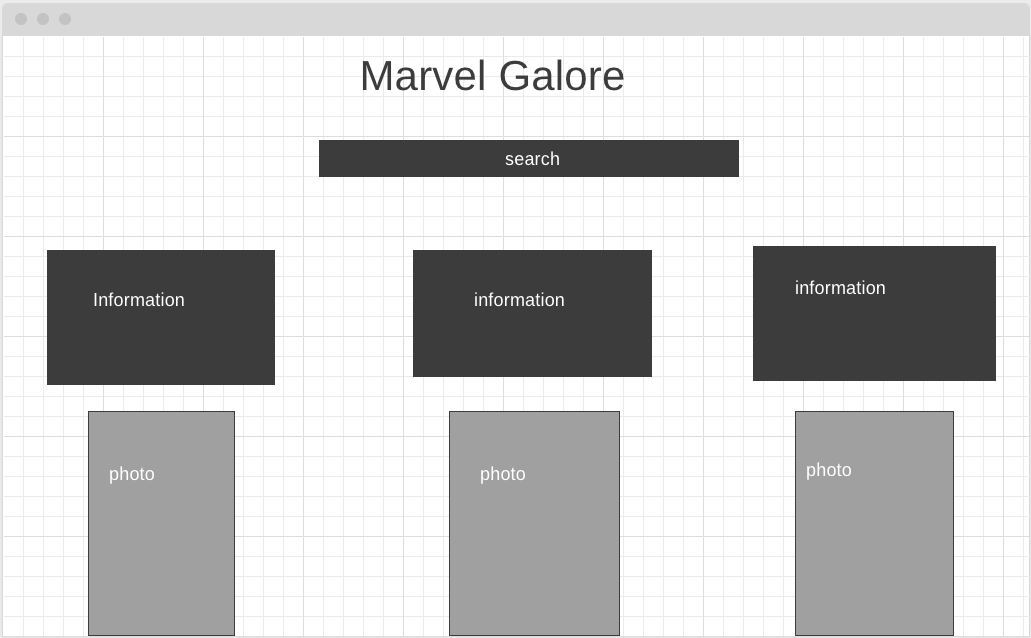
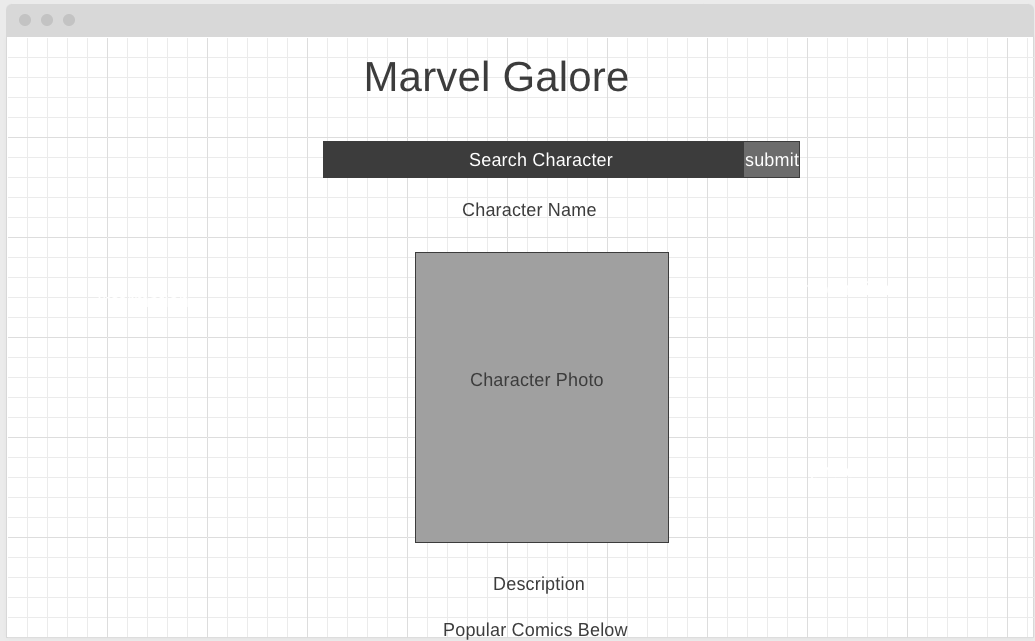
complete

diff --git a/script.js b/script.js
@@ -1,4 +1,4 @@
-const urlComic = ("http://gateway.marvel.com/v1/public/comics?ts=1&apikey=a78e3adcbc7bd18276cc614ce23deb26&hash=9fa0da4cb7c4e322ed7bca01b1ca91c4&limit=10")
+const urlComic = ("http://gateway.marvel.com/v1/public/comics?ts=1&apikey=a78e3adcbc7bd18276cc614ce23deb26&hash=9fa0da4cb7c4e322ed7bca01b1ca91c4&limit=10&offset=12")
 const characterUrl = ('http://gateway.marvel.com/v1/public/characters?ts=1&apikey=a78e3adcbc7bd18276cc614ce23deb26&hash=9fa0da4cb7c4e322ed7bca01b1ca91c4&limit=100')
 
 
@@ -46,7 +46,6 @@ function showCharacterData(characters) {
 
 
     let characterDescription = document.createElement('p')
-
     if (character.description === "") {
       characterDescription.innerText = "No description available"
       dataBoxes.appendChild(characterDescription)
@@ -80,7 +79,6 @@ function showComicData(comics) {
       comicCharacters.innerText = `${"CHARACTERS: " + character.name}`;
       dataBoxes.appendChild(comicCharacters);
     });
-    // console.log(comics.characters.items)
 
     let comicDescription = document.createElement('p')
     comicDescription.innerText = comics.description
@@ -96,8 +94,6 @@ function showComicData(comics) {
     let comicPrice = document.createElement('h4')
     comicPrice.innerText = `${"PRICE: " + "$" + comics.prices[0].price}`
     dataBoxes.appendChild(comicPrice)
-
-
   })
 
 
@@ -112,12 +108,9 @@ const searchMarvel = document.querySelector('#searchMarvel')
 marvelForm.addEventListener("submit", (e) => {
   e.preventDefault()
   removeCharacter()
-  // removeComic()
   let characterSearch = searchMarvel.value
   console.log(characterSearch)
   getMarvel(characterSearch)
-
-
 })
 
 function removeCharacter() {
@@ -129,9 +122,6 @@ function removeComic() {
 
 marvelForm.addEventListener("submit", (e) => {
   e.preventDefault();
-  // removeCharacter();
   removeComic();
   let characterSearch = searchMarvel.value;
-  // console.log(characterSearch);
-  // getMarvel(characterSearch);
 });

diff --git a/index.html b/index.html
@@ -23,7 +23,7 @@
 
 
       <form id="marvel-form">
-        <input class="searchbar" id="searchMarvel" type="text" placeholder="Search comics/characters">
+        <input class="searchbar" id="searchMarvel" type="text" placeholder="Search characters">
         <button id="submit">Submit</button>
       </form>
     </div>

diff --git a/README.md b/README.md
@@ -5,7 +5,7 @@ Marvel Galore
 
 ## Project Description
 
-This is a site that allows you to search your favorite marvel comics and characters. This will display information about them.
+This is a site that allows you to search your favorite marvel characters. This will display information about them.
 
 ## API and Data Sample
 
@@ -43,11 +43,13 @@ I am using the marvel.com api. Here's the link: https://developer.marvel.com/
 #### MVP 
 <!-- *These are examples only. Replace with your own MVP features.* -->
 - Use marvel api to receive relevant information.
-- Render the comics and/or characters onto the page
-- Allowing user to click on the comics/characters and recieve additional info about them.
 - Add javascript to create functionality
-- Style the page uding flex box and css
+- Render popular Marvel comics onto the page onto the page.
+- Allows the user to search Marvel characters.
+- Shows user information about the character they searched.
+- Style the page using flex box and css
 - Add media queries to cater to different screen sizes.
+
 
 #### PostMVP  
 <!-- *These are examples only. Replace with your own Post-MVP features.* -->
@@ -62,10 +64,10 @@ You are **responsible** for scheduling time with your squad to seek approval for
 |  Day | Deliverable | Status
 |---|---| ---|
 |nov 7| Wireframes / Priority Matrix / Timeframes | complete
-|nov 8| Core Application Structure (HTML, CSS, etc.) | Incomplete
-|nov 9| Pseudocode / actual code | Incomplete
-|nov 10| Initial Clickable Model  | Incomplete
-|nov 11-12| MVP | Incomplete
+|nov 8| Core Application Structure (HTML, CSS, etc.) | complete
+|nov 9| Pseudocode / actual code | complete
+|nov 10| Initial Clickable Model  | complete
+|nov 11-12| MVP | complete
 
 
 ## Priority Matrix
@@ -83,28 +85,32 @@ You are **responsible** for scheduling time with your squad to seek approval for
 | --- | :---: |  :---: | :---: | :---: |
 | Planning | H | 2hrs| 3.5hrs | 3.5hrs |
 | HTML | H | 2hrs| 2.5hrs | 2.5hrs |
-| pseudocoding | M | 3hrs| 1.5hrs| 2hrs|
+| pseudocoding | M | 3hrs| 2hrs| 2hrs|
 | CSS | L | 3hrs | 3hrs | 4hrs|
 | Js functionality | H | 4hrs | 4hrs | 4hrs |
 | Events for buttons | H | 3hrs | 3hrs | 3hrs
 | API calling | H | 4hrs | 4hrs | 4hrs |
 | Retrieving data | H | 3hrs | 4hrs | 4hrs|
-| Styling api | H | 4hrs | 4hrs | 4hrs |
-| Responsive design | H | 4hrs | 4hrs | 4hrs
+| Styling api | H | 4hrs | 2hrs | 2hrs |
+| Responsive design | H | 4hrs | 2hrs | 2hrs
 | Styling info/images | M | 3hrs | 3hrs | 3hrs
 | Media queries | M | 4hrs | 4hrs | 4hrs |
-| Testing functionality | M | 2hrs | 2hrs | 2hrs |
-| Total | H | 41hrs| 41hrs | 41hrs |
+| Testing functionality | M | 2hrs | 4hrs | 4hrs |
+| Total | H | 41hrs| 39hrs | 39hrs |
 
 ## Code Snippet
 
 <!-- Use this section to include a brief code snippet of functionality that you are proud of and a brief description.   -->
-
-<!-- ```
-function reverse(string) {
-	// here is the code to reverse a string of text
-}
-``` -->
+```
+  let characterDescription = document.createElement('p')
+    if (character.description === "") {
+      characterDescription.innerText = "No description available"
+      dataBoxes.appendChild(characterDescription)
+    } else {
+      characterDescription.innerText = character.description
+      dataBoxes.appendChild(characterDescription)
+    }
+```
 
 ## Change Log
- <!-- Use this section to document what changes were made and the reasoning behind those changes.   -->
+ I had to change the search options, because the api that I am using is only giving me a certain amount of data. There was no way to raise the limit of my data to over 100.
